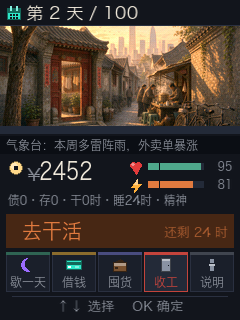
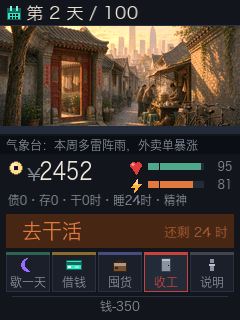
fix(折叠北京): 事件选完没反馈 —— 结果一直被推进逻辑擦掉
顺着「父母支援 2200 没到账」往同类问题查，发现更普遍的一层：
玩家做完选择，屏幕上什么回音都没有。

1) 根因：FB_SCR_EVENT 先写 toast 再调 advance_after_event，而后者
   一进来就 toast[0]='\0'（那是给收工流水用的）。刚写完就被擦掉，
   事件结果从来没上过屏。改成先推进、再回填，且只在没有更贵的顶条
   （丢车/欠觉/晕倒）时才占用这一行，避免又把「车被收走」挤掉。
2) 纯数值选项（认罚 -250、挂急诊 -600、换屏 -350……）在
   fb_apply_choice 里从不写日志。补通用兜底：按实际增量拼
   「钱-250 健康+6」。特殊分支自己写了日志的，只补名声增减。
3) 「删了息事，掉粉四成」靠 special 改粉丝、c->fans 是 0，兜底读不到，
   单独写「掉粉 N」—— 不然玩家只觉得粉丝莫名少了一截。
4) 买进货品、扩容仓储成功时也没有回执，补「烤冷面 +1，进货 -4」
   「扩容到 24 格」。

回归 tests/test_fb_event_feedback.c：全表遍历每个非空选项必须产出
结果文案；掉粉数要报出来；once 事件下标必须落在 once_mask 的 8 位内；
事件选项最多 3 个（卡片区只排得下三张）。页面测试加
test_event_result_visible：按 OK 后 cash 扣对、回到主面板、toast 里
留着「钱-200 名声-1」。门禁 11/11。

Changed region(s): [[0.35, 0.9375, 0.7583, 1.0], [0.2333, 0.9375, 0.3208, 0.9688]]

diff --git a/tests/test_fb_event_feedback.c b/tests/test_fb_event_feedback.c
@@ -1,0 +1,118 @@
+/* 折叠北京 · 事件结果反馈契约测试（host）。
+ *
+ * 玩家反馈「父母支援 2200 没到账」，根因是一处写死的下标；顺着这条线
+ * 又查出更普遍的一类：**事件选完没有任何回音**。
+ *
+ *   1. 纯数值选项（认罚 -250、挂急诊 -600、换屏 -350……）在
+ *      fb_apply_choice 里只改数值，从来不写结果日志；
+ *   2. 就算写了，fb_app 的 FB_SCR_EVENT 分支是先写 toast 再调
+ *      advance_after_event，而后者一进来就把 toast 清零 ——
+ *      刚写完就被擦掉，结果一个月里从来没上过屏。
+ *
+ * 这里的契约：任何「会改变状态的选项」都必须产出非空结果文案。
+ * 以后加新事件，忘了写日志就直接红。
+ */
+#include <assert.h>
+#include <stdbool.h>
+#include <stdio.h>
+#include <string.h>
+
+#include "fb_game.h"
+
+/* 选项是不是真的什么都没做（「先不接」「守着，认了」这类）。
+ * special 非 0 的选项一定会改变状态，不算空操作。 */
+static bool choice_is_noop(const fb_choice_t *c) {
+    if (c->special != 0) return false;
+    return c->cash == 0 && c->health == 0 && c->stamina == 0 &&
+           c->rep == 0 && c->fans == 0;
+}
+
+static void test_every_choice_has_feedback(void) {
+    size_t n = 0;
+    const fb_event_t *t = fb_event_table(&n);
+    assert(n > 0);
+
+    int silent = 0;
+    for (size_t i = 0; i < n; ++i) {
+        for (uint8_t k = 0; k < t[i].choice_n; ++k) {
+            const fb_choice_t *c = &t[i].choices[k];
+            if (choice_is_noop(c)) continue;
+
+            fb_state_t st;
+            fb_init(&st, 0, 1u);
+            st.cash = 5000;   /* 保证扣得动，别让余额影响文案 */
+            st.fans = 300;
+            st.reputation = 60;
+
+            char log[FB_LOG_SIZE];
+            fb_apply_choice(&st, &t[i], k, log, sizeof log);
+            if (log[0] == '\0') {
+                printf("  FAIL 静默选项: 「%s」/「%s」\n", t[i].title, c->label);
+                ++silent;
+            }
+        }
+    }
+    assert(silent == 0);
+    printf("  every_choice_has_feedback OK\n");
+}
+
+/* special=3 掉粉四成：粉丝数变了就必须报出掉多少，不能只靠玩家自己数 */
+static void test_fans_loss_reported(void) {
+    size_t n = 0;
+    const fb_event_t *t = fb_event_table(&n);
+    const fb_event_t *report = NULL;
+    for (size_t i = 0; i < n; ++i) {
+        if (strcmp(t[i].title, "视频被举报") == 0) { report = &t[i]; break; }
+    }
+    assert(report);
+
+    fb_state_t st;
+    fb_init(&st, 0, 1u);
+    st.fans = 1000;
+    char log[FB_LOG_SIZE];
+    fb_apply_choice(&st, report, 0, log, sizeof log);   /* 删了息事，掉粉四成 */
+    assert(st.fans == 600);
+    assert(strstr(log, "掉粉 400") != NULL);
+    printf("  fans_loss_reported OK\n");
+}
+
+/* once_mask 是 uint8_t（8 位）：给下标 >= 8 的事件标 once，
+ * (uint8_t)(1u << i) 会直接被截掉，那个事件就永远「只用一次」失效。
+ * 现在还没有这种事件，这条测试是为了别在以后悄悄踩进去。 */
+static void test_once_mask_fits(void) {
+    size_t n = 0;
+    const fb_event_t *t = fb_event_table(&n);
+    for (size_t i = 0; i < n; ++i) {
+        if (!t[i].once) continue;
+        if (i >= 8) {
+            printf("  FAIL once 事件「%s」下标 %zu >= 8，once_mask 存不下\n",
+                   t[i].title, i);
+            assert(0);
+        }
+    }
+    printf("  once_mask_fits OK\n");
+}
+
+/* 事件页的卡片区高度只够三张（三张时压到 26px）。选项写多了不会报错，
+ * 只会第四张画到屏幕外面去 —— 玩家看到一个点不到的选项。 */
+static void test_choice_count_fits_layout(void) {
+    size_t n = 0;
+    const fb_event_t *t = fb_event_table(&n);
+    for (size_t i = 0; i < n; ++i) {
+        if (t[i].choice_n < 1 || t[i].choice_n > 3) {
+            printf("  FAIL 事件「%s」有 %u 个选项，事件页最多排三张\n",
+                   t[i].title, (unsigned)t[i].choice_n);
+            assert(0);
+        }
+    }
+    printf("  choice_count_fits_layout OK\n");
+}
+
+int main(void) {
+    test_every_choice_has_feedback();
+    test_fans_loss_reported();
+    test_once_mask_fits();
+    test_choice_count_fits_layout();
+    puts("事件结果反馈契约: PASS");
+    return 0;
+}

diff --git a/main/fb_app.c b/main/fb_app.c
@@ -1283,6 +1283,15 @@ void fb_app_on_key(fb_app_t *app, xm_input_t in) {
                                      app->st.inv_total >= app->st.storage
                                          ? "仓储满了，先扩容"
                                          : "现金不够进货");
+                        } else {
+                            /* 买成了也要说一声：不然按完 OK 屏幕上只有
+                             * 「有 N」悄悄加一，玩家会怀疑钱花了货没到。 */
+                            size_t ni = 0;
+                            const fb_item_t *items = fb_item_table(&ni);
+                            snprintf(app->toast, sizeof(app->toast),
+                                     "%s +1，进货 -%d",
+                                     kind < ni ? items[kind].name : "货",
+                                     (int)(kind < ni ? items[kind].cost : 0));
                         }
                     } else if (can_run(app, FB_LINE_MARKET)) {
                         fb_run_market(&app->st, app->toast, sizeof(app->toast));
@@ -1383,6 +1392,11 @@ void fb_app_on_key(fb_app_t *app, xm_input_t in) {
         case FB_SCR_STORAGE:
             if (!fb_expand_storage(&app->st)) {
                 snprintf(app->toast, sizeof(app->toast), "现金不够扩容");
+            } else {
+                /* 花了钱必须有回执：不加这句，按 OK 之后只有角落里的
+                 * 格数悄悄变了，玩家只会怀疑钱扣了没办成事。 */
+                snprintf(app->toast, sizeof(app->toast), "扩容到 %u 格",
+                         (unsigned)app->st.storage);
             }
             break;
 
@@ -1404,12 +1418,21 @@ void fb_app_on_key(fb_app_t *app, xm_input_t in) {
                 msg[0] = '\0';
                 fb_apply_choice(&app->st, app->ev, app->sel, msg,
                                 sizeof(msg));
-                if (msg[0]) {
+                app->ev = NULL;
+                /* 先推进、再回填结果。advance_after_event 一进来就把 toast
+                 * 清零（那是给收工流水用的：新的一天不该带着昨天的账），
+                 * 原来先写 toast 再推进，等于刚写完就被擦掉 —— 事件结果
+                 * 从来没在屏幕上出现过。顺序换过来，玩家的选择才有回音。 */
+                advance_after_event(app);
+                /* 丢车/欠觉/晕倒那几行更贵，不能被事件结果挤掉 ——
+                 * 「车被收走」再被吞一次就又是老问题。没有那些提示时，
+                 * 这一行留给玩家刚做的那次选择。 */
+                if (msg[0] && app->toast[0] == '\0') {
                     snprintf(app->toast, sizeof(app->toast), "%s", msg);
                 }
-                app->ev = NULL;
+            } else {
+                advance_after_event(app);
             }
-            advance_after_event(app);
             break;
 
         case FB_SCR_ENDING:

diff --git a/main/fb_game.c b/main/fb_game.c
@@ -1070,9 +1070,13 @@ void fb_apply_choice(fb_state_t *st, const fb_event_t *ev, uint8_t choice,
                 logf_(log, logsz, "赌输了，掉粉 %d 名声-4", (int)lost);
             }
             break;
-        case 3:   /* 掉粉四成 */
+        case 3: {  /* 掉粉四成：粉丝数真的变了就必须说出来，否则玩家只是
+                    * 觉得「粉丝莫名少了一截」，又是一次无声的损失。 */
+            const uint16_t before = st->fans;
             st->fans = (uint16_t)(st->fans - st->fans * 4 / 10);
+            logf_(log, logsz, "掉粉 %d", (int)(before - st->fans));
             break;
+        }
         case 4:   /* 名声求情：满 50 免罚，不够就照罚。
                    * 原先文案写「看名声」，代码却从不读名声、无条件免罚 ——
                    * 名声于是成了只写不读的死属性，玩家拿它做决定全是假的。 */
@@ -1087,11 +1091,28 @@ void fb_apply_choice(fb_state_t *st, const fb_event_t *ev, uint8_t choice,
         default:
             break;
     }
-    /* 多数选项只改名声，结果行原本是空的 —— 玩家花了名声却毫不知情。
-     * 名声现在真决定查车能不能免罚，所以每次增减都要在结果里看得见。 */
-    if (c->rep && log && logsz) {
-        size_t used = strlen(log);
-        if (used + 12 < logsz) snprintf(log + used, logsz - used, " 名声%+d", (int)c->rep);
+    /* 结果行不能空着。special 分支自己写了日志的，这里只补名声增减；
+     * 什么都没写的（认罚、挂急诊、换屏……纯数值选项），就按实际增量拼
+     * 一句 —— 原先这类选项一句提示都没有，玩家点完只看到页面跳走，
+     * 钱少了也不说，事后一算就是「钱莫名少了」。 */
+    if (log && logsz) {
+        if (log[0] == '\0') {
+            char buf[FB_LOG_SIZE];
+            buf[0] = '\0';
+            if (c->cash) logf_(buf, sizeof buf, "钱%+d ", (int)c->cash);
+            if (c->health) logf_(buf, sizeof buf, "健康%+d ", (int)c->health);
+            if (c->stamina) logf_(buf, sizeof buf, "精力%+d ", (int)c->stamina);
+            if (c->rep) logf_(buf, sizeof buf, "名声%+d ", (int)c->rep);
+            if (c->fans) logf_(buf, sizeof buf, "粉丝%+d ", (int)c->fans);
+            size_t n = strlen(buf);
+            while (n > 0 && buf[n - 1] == ' ') buf[--n] = '\0';
+            if (n > 0) snprintf(log, logsz, "%s", buf);
+        } else if (c->rep) {
+            size_t used = strlen(log);
+            if (used + 12 < logsz) {
+                snprintf(log + used, logsz - used, " 名声%+d", (int)c->rep);
+            }
+        }
     }
 }
 

diff --git a/tests/test_fb_app_pages.c b/tests/test_fb_app_pages.c
@@ -197,6 +197,47 @@ static void test_event_choices(void) {
     printf("  event choices OK\n");
 }
 
+/* 事件结果必须真的留在屏幕上。FB_SCR_EVENT 原先先写 toast、再调
+ * advance_after_event，而后者一进来就把 toast 清零（那是给收工流水用的）
+ * —— 等于刚写完就被擦掉，玩家选完「认罚 -250」页面直接跳走，一个字都没有。 */
+static void test_event_result_visible(void) {
+    fb_app_t a;
+    fb_app_init(&a, 11u);
+    press(&a, XM_IN_OK_CLICK);              /* 封面 → 主面板 */
+
+    size_t n = 0;
+    const fb_event_t *t = fb_event_table(&n);
+    const fb_event_t *fine = NULL;
+    for (size_t i = 0; i < n; ++i) {
+        if (strcmp(t[i].title, "路口查车") == 0) { fine = &t[i]; break; }
+    }
+    if (!fine) {
+        printf("  FAIL 找不到「路口查车」事件\n");
+        ++s_fail;
+        return;
+    }
+
+    a.st.cash = 3000;
+    a.scr = FB_SCR_EVENT;
+    a.ev = fine;
+    a.sel = 0;                              /* 认罚 -200 */
+
+    press(&a, XM_IN_OK_CLICK);
+    if (a.st.cash != 2800) {
+        printf("  FAIL 事件罚款没生效（cash=%d）\n", (int)a.st.cash);
+        ++s_fail;
+    }
+    if (a.scr != FB_SCR_HOME) {
+        printf("  FAIL 事件后没回主面板（scr=%u）\n", (unsigned)a.scr);
+        ++s_fail;
+    }
+    if (a.toast[0] == '\0' || !strstr(a.toast, "-200")) {
+        printf("  FAIL 事件结果没上屏（toast=\"%s\"）\n", a.toast);
+        ++s_fail;
+    }
+    printf("  event result OK (toast=%s)\n", a.toast);
+}
+
 int main(void) {
     printf("test_fb_app_pages\n");
     fb_app_t app;
@@ -354,6 +395,9 @@ int main(void) {
 
     /* 事件页上下键必须能换到第二、第三项 */
     test_event_choices();
+
+    /* 事件结果必须留在屏幕上，不能被推进逻辑擦掉 */
+    test_event_result_visible();
 
     if (s_fail) {
         printf("test_fb_app_pages: FAIL (%d)\n", s_fail);
